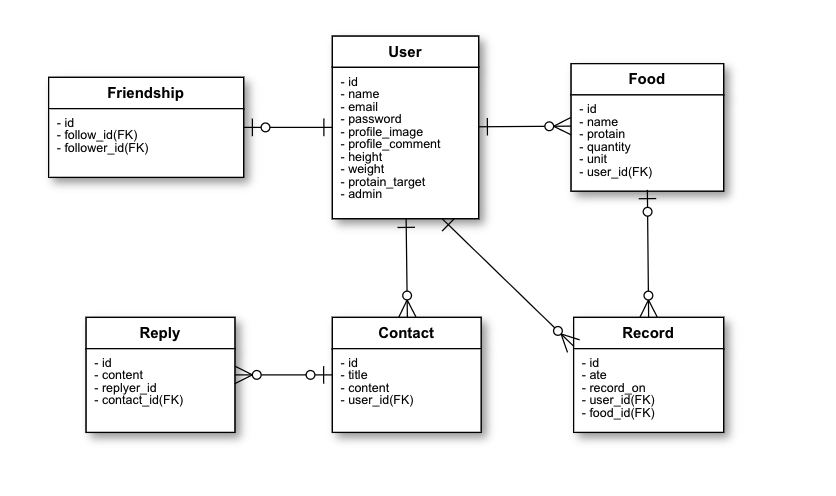
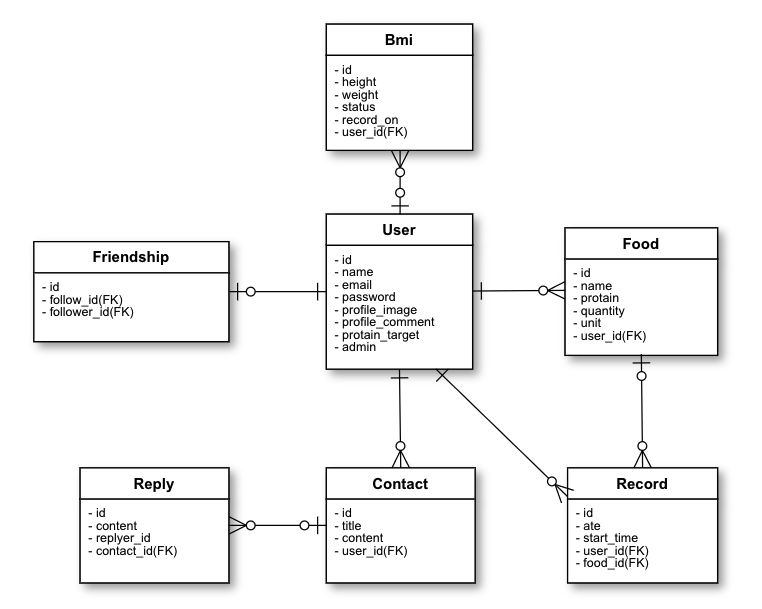
改善: ER図や機能一覧等更新 #100

Changed region(s): [[0.0302, 0.0302, 0.9659, 0.998]]

diff --git a/README.md b/README.md
@@ -6,7 +6,7 @@
 
 ### 制作背景
 ---
-私の前職は力仕事でした。筋トレをして体重を増やし、重労働に耐えられる体を作りました。
+前職が力仕事で、筋トレをして体重を増やす必要がありました。
 筋トレで効率良く筋肉をつけるにはタンパク質管理が重要といわれています。
 １日当たり成人男性は体重x１g、女性は体重x0.8gのタンパク質を摂ることが推奨されており、筋トレをする場合の摂取量は体重の約1.5~2倍になります。
 例えば、体重60kgの男性が筋トレをする場合は90g〜120gのタンパク質が必要になります。卵1個には4g  豆腐1丁には 6g、このように一つ一つ計算するのはとても大変です。
@@ -34,6 +34,7 @@
 * 食品記録機能
 * お問合せ機能
 * カレンダー機能
+* BMI計算機能
 * Heroku
 
 ### 就業Termの技術
@@ -45,6 +46,8 @@
 ### カリキュラム外の技術
 ---
 * ransack
+* simple_calendar
+* chartkick
 
 ### 実行手順
 ---
